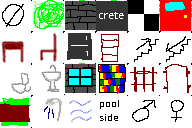
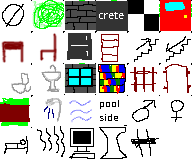
Map first floor + roof

diff --git a/cmd/csvToBin/main.go b/cmd/csvToBin/main.go
@@ -99,6 +99,21 @@ func csvToMap(fn string) *maps.Map {
 			case 23:
 				// Female sign
 				ret.SetTileAt(x, y, maps.Tile('F'))
+			case 24:
+				// bed
+				ret.SetTileAt(x, y, maps.NewTile('#', termbox.ColorYellow, true, true, 0x00))
+			case 25:
+				// curtain
+				ret.SetTileAt(x, y, maps.NewTile('{', termbox.ColorYellow, false, false, 0x0b))
+			case 26:
+				// computer
+				ret.SetTileAt(x, y, maps.NewTile('=', termbox.ColorDefault, true, false, 0x00))
+			case 27:
+				// curtain rail
+				ret.SetTileAt(x, y, maps.NewTile('|', termbox.ColorCyan, true, false, 0x00))
+			case 28:
+				// railing
+				ret.SetTileAt(x, y, maps.NewTile('%', termbox.ColorDefault, false, false, 0x00))
 			default:
 				// void
 				ret.SetTileAt(x, y, maps.Tile(0x0020))
